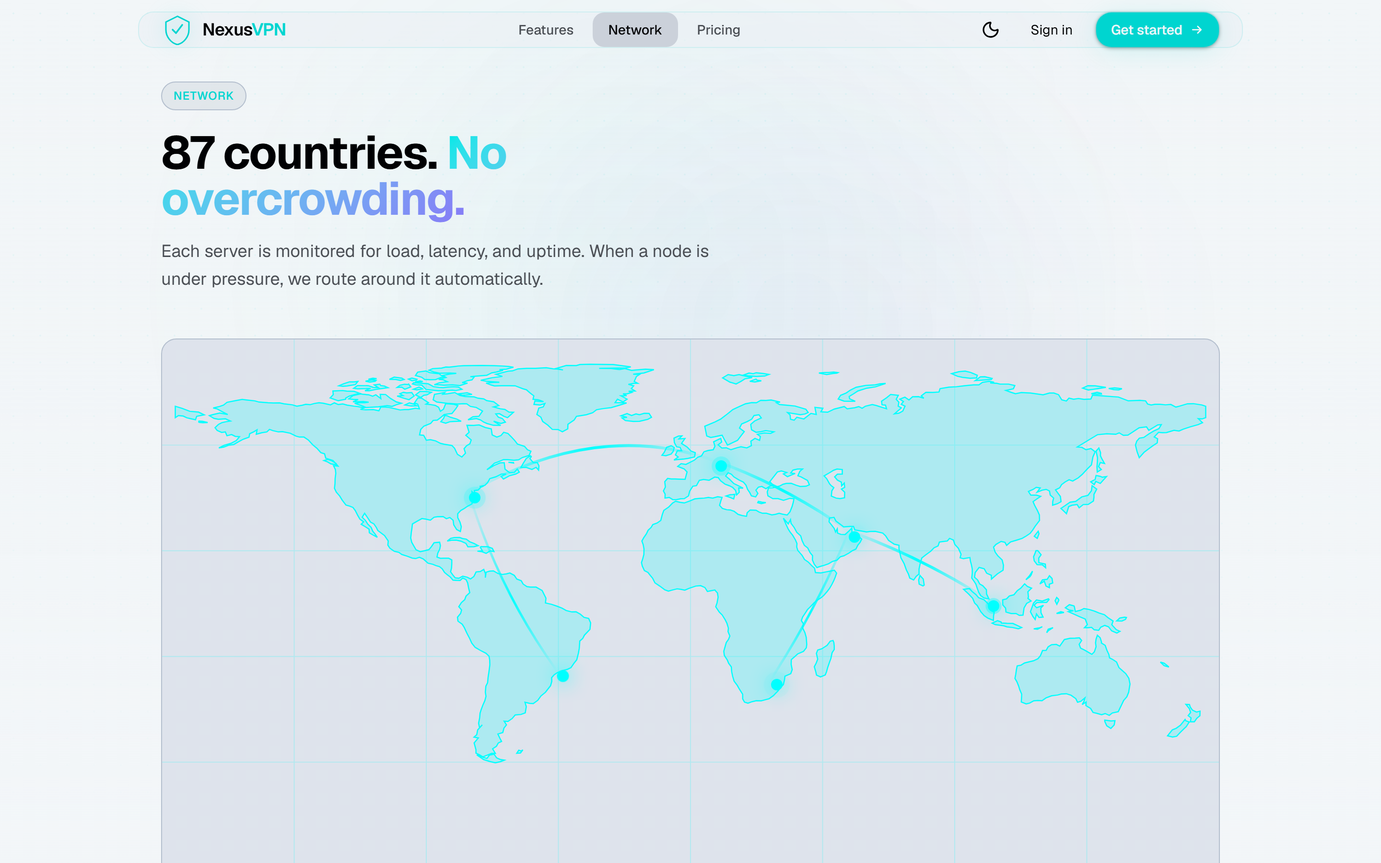
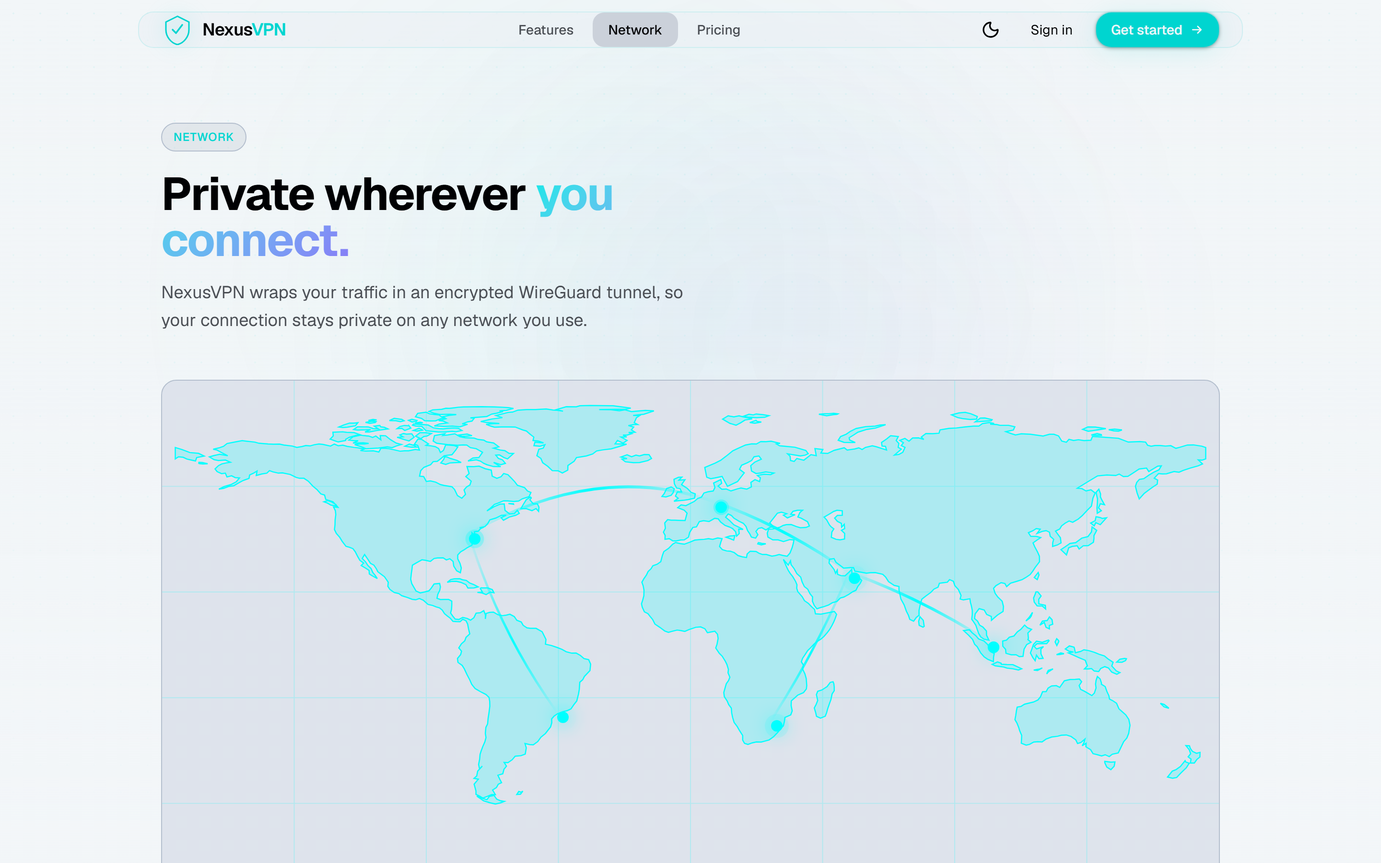
fix(web): align marketing claims with the real implementation
The public site advertised features and figures the project does not
implement. Rewrote the marketing content so every claim matches the code
(WireGuard only, no invented numbers), keeping the design:

- removed OpenVPN, kill switch, split tunneling, DNS-leak/"own resolver",
  "87 countries/servers", 99.98% uptime, 10 Gbps, independent/open audit,
  30-day money-back, SSO/SAML, dedicated IP, SLA and device-count claims;
- hero, stats, map (network), features, pricing, footer and metadata now
  describe the real service: WireGuard® (ChaCha20-Poly1305, Curve25519),
  no activity logs, pay in DZD via EDAHABIA/CIB, 7-day trial, cancel any time;
- plan features/descriptions (PlansTableSeeder + dev DB) and the comparison
  table rewritten (seats/protocol/payment instead of locations/split-tunnel);
- eslint: ignore docs/** (Node build scripts are not app code).

Verified: eslint, tsc --noEmit and next build pass; 131/131 backend tests
pass. Recaptured the six affected memoire screenshots (01, 02, 03, 05, 07,
90) in the same format and added capture-memoire.mjs. Updated Chapter IV
(Figure IV.4 caption) and docs/pfe (R-09 resolved, L-04/L-05, changelog).

Changed region(s): [[0.0938, 0.0933, 0.875, 0.9333]]

diff --git a/components/features-section.tsx b/components/features-section.tsx
@@ -12,7 +12,7 @@ const features = [
     ),
     title: "Your activity stays yours",
     badge: "Zero-log",
-    description: "We keep no connection timestamps, no IP addresses, no traffic data. Our infrastructure is architected so that we couldn't provide logs even if compelled to.",
+    description: "The portal keeps no VPN connection timestamps, no IP addresses and no traffic data. Its data model simply has nowhere to store your browsing.",
   },
   {
     icon: (
@@ -22,9 +22,9 @@ const features = [
         <circle cx="12" cy="16" r="1.5" fill="currentColor"/>
       </svg>
     ),
-    title: "End-to-end encryption",
-    badge: "ChaCha20 · AES-256",
-    description: "Traffic is encrypted before it leaves your device. We support WireGuard® and OpenVPN, with forward secrecy on every session.",
+    title: "Modern encryption",
+    badge: "WireGuard®",
+    description: "Every tunnel uses the WireGuard protocol — ChaCha20-Poly1305 encryption and Curve25519 keys, with a fresh key pair generated for each account.",
   },
   {
     icon: (
@@ -33,9 +33,9 @@ const features = [
         <path d="M5.64 6.64a9 9 0 000 10.72M8.46 9.46a5 5 0 000 5.08" stroke="currentColor" strokeWidth="1.5" strokeLinecap="round"/>
       </svg>
     ),
-    title: "Kill switch, always on",
-    badge: "Network guard",
-    description: "If the tunnel drops unexpectedly, network access is cut immediately — before your real IP is exposed. Works at the OS level, not app level.",
+    title: "Your real IP stays hidden",
+    badge: "IP masking",
+    description: "Your traffic is routed through the encrypted tunnel, so the sites you reach see the VPN's address — not the real one your ISP assigned you.",
   },
   {
     icon: (
@@ -45,9 +45,9 @@ const features = [
         <path d="M2 12h20" stroke="currentColor" strokeWidth="1.5"/>
       </svg>
     ),
-    title: "Access without borders",
-    badge: "87 countries",
-    description: "Reach content that's geo-restricted where you are. Servers placed for speed, not just flag count — every node is on high-bandwidth fiber.",
+    title: "Pay in Algerian dinars",
+    badge: "EDAHABIA · CIB",
+    description: "Checkout in DZD with EDAHABIA or CIB through the Chargily gateway — no foreign currency and no foreign card needed to subscribe.",
   },
   {
     icon: (
@@ -56,9 +56,9 @@ const features = [
         <circle cx="12" cy="12" r="4" stroke="currentColor" strokeWidth="1.5"/>
       </svg>
     ),
-    title: "Split tunneling",
-    badge: "Per-app routing",
-    description: "Route your bank app through the VPN while your video calls go direct. Full control over which traffic gets encrypted — without losing either.",
+    title: "Up and running in minutes",
+    badge: "7-day trial",
+    description: "Create an account, start a free 7-day trial, and download a ready-to-import WireGuard configuration file for your device.",
   },
   {
     icon: (
@@ -67,9 +67,9 @@ const features = [
         <path d="M14 3v5h5" stroke="currentColor" strokeWidth="1.5" strokeLinecap="round"/>
       </svg>
     ),
-    title: "DNS leak prevention",
-    badge: "Private resolver",
-    description: "DNS queries are resolved inside the encrypted tunnel using our own resolver — not your ISP's. Your browsing lookups stay invisible.",
+    title: "One simple subscription",
+    badge: "No lock-in",
+    description: "Manage your subscription from your dashboard, view your payment receipts, and cancel whenever you want — access runs to the end of the paid period.",
   },
 ]
 

diff --git a/components/hero-section.tsx b/components/hero-section.tsx
@@ -7,7 +7,7 @@ const statusItems = [
   { label: "Tunnel", value: "WireGuard®", color: "text-emerald-400" },
   { label: "DNS", value: "Protected", color: "text-emerald-400" },
   { label: "IP", value: "Masked", color: "text-emerald-400" },
-  { label: "Kill switch", value: "Active", color: "text-emerald-400" },
+  { label: "Cipher", value: "ChaCha20", color: "text-emerald-400" },
 ]
 
 /**
@@ -158,16 +158,16 @@ function VPNDashboard() {
             </div>
           </div>
 
-          {/* Server row */}
+          {/* Tunnel row */}
           <div className="flex items-center justify-between rounded-xl bg-primary/8 border border-primary/15 px-3 py-2.5">
             <div className="flex items-center gap-2.5">
-              <div className="w-6 h-6 rounded-md bg-primary/20 flex items-center justify-center text-xs">🇯🇵</div>
+              <div className="w-6 h-6 rounded-md bg-primary/20 flex items-center justify-center text-xs">🔒</div>
               <div>
-                <p className="text-xs font-medium text-foreground">Tokyo · JP‑01</p>
-                <p className="text-xs text-muted-foreground">12 ms</p>
+                <p className="text-xs font-medium text-foreground">Encrypted tunnel</p>
+                <p className="text-xs text-muted-foreground">WireGuard® · ChaCha20</p>
               </div>
             </div>
-            <button className="text-xs text-primary hover:text-primary/80 transition-colors">Switch</button>
+            <span className="text-xs font-medium text-emerald-400">Active</span>
           </div>
         </div>
       </div>
@@ -226,7 +226,7 @@ export function HeroSection() {
               <div className="flex max-w-full flex-wrap items-center justify-center gap-2 rounded-full border border-border bg-muted/50 px-3 py-1.5">
                 <div className="h-1.5 w-1.5 rounded-full bg-emerald-400" />
                 <span className="text-[11px] font-medium uppercase tracking-[0.18em] text-muted-foreground">
-                  Open audit · no logs · WireGuard®
+                  Encrypted · no activity logs · WireGuard®
                 </span>
               </div>
             </motion.div>
@@ -246,7 +246,7 @@ export function HeroSection() {
               variants={itemVariants}
               className="mx-auto mb-8 max-w-lg text-base leading-relaxed text-muted-foreground lg:mx-0 lg:text-lg"
             >
-              NexusVPN keeps your traffic encrypted, hides your real IP, and routes you through a reliable global network built for speed and privacy.
+              NexusVPN keeps your traffic encrypted, hides your real IP, and routes it through a secure WireGuard tunnel built for speed and privacy.
             </motion.p>
 
             {/* CTAs */}
@@ -274,9 +274,9 @@ export function HeroSection() {
               className="mt-8 flex flex-wrap items-center justify-center gap-x-5 gap-y-3 lg:justify-start"
             >
               {[
-                "Zero activity logs",
-                "30-day money back",
-                "Independent audit",
+                "No activity logs",
+                "7-day free trial",
+                "WireGuard® protocol",
               ].map((item) => (
                 <div key={item} className="flex items-center gap-1.5 text-xs text-muted-foreground">
                   <svg viewBox="0 0 16 16" fill="none" className="w-3.5 h-3.5 text-primary flex-shrink-0">

diff --git a/components/map-section.tsx b/components/map-section.tsx
@@ -3,12 +3,12 @@
 import { motion } from "framer-motion"
 
 const regions = [
-  { name: "North America", nodes: 24, latency: "8ms", x: "29.0%", y: "28.9%" },
-  { name: "Europe", nodes: 31, latency: "5ms", x: "52.4%", y: "22.9%" },
-  { name: "Asia Pacific", nodes: 19, latency: "14ms", x: "78.1%", y: "49.3%" },
-  { name: "South America", nodes: 7, latency: "22ms", x: "37.4%", y: "62.7%" },
-  { name: "Middle East", nodes: 4, latency: "18ms", x: "65.0%", y: "36.3%" },
-  { name: "Africa", nodes: 2, latency: "30ms", x: "57.6%", y: "64.2%" },
+  { name: "North America", x: "29.0%", y: "28.9%" },
+  { name: "Europe", x: "52.4%", y: "22.9%" },
+  { name: "Asia Pacific", x: "78.1%", y: "49.3%" },
+  { name: "South America", x: "37.4%", y: "62.7%" },
+  { name: "Middle East", x: "65.0%", y: "36.3%" },
+  { name: "Africa", x: "57.6%", y: "64.2%" },
 ]
 
 // Real-world coastlines (Natural Earth 110m land data), simplified and
@@ -31,11 +31,11 @@ export function MapSection() {
             <span className="text-xs text-primary font-medium tracking-wider uppercase">Network</span>
           </div>
           <h2 className="text-3xl md:text-4xl lg:text-5xl font-bold tracking-tight max-w-2xl">
-            87 countries.{" "}
-            <span className="text-gradient">No overcrowding.</span>
+            Private wherever{" "}
+            <span className="text-gradient">you connect.</span>
           </h2>
           <p className="text-muted-foreground mt-4 max-w-xl text-lg leading-relaxed">
-            Each server is monitored for load, latency, and uptime. When a node is under pressure, we route around it automatically.
+            NexusVPN wraps your traffic in an encrypted WireGuard tunnel, so your connection stays private on any network you use.
           </p>
         </motion.div>
 
@@ -118,21 +118,10 @@ export function MapSection() {
                     <div className="absolute bottom-5 left-1/2 -translate-x-1/2 opacity-0 group-hover:opacity-100 transition-opacity duration-200 pointer-events-none z-20">
                       <div className="glass rounded-xl px-3 py-2 whitespace-nowrap">
                         <p className="text-xs font-medium text-foreground">{region.name}</p>
-                        <p className="text-xs text-muted-foreground">{region.nodes} nodes · {region.latency} avg</p>
                       </div>
                     </div>
                   </div>
                 </motion.div>
-              ))}
-            </div>
-
-            {/* Region stats below map */}
-            <div className="grid grid-cols-3 md:grid-cols-6 divide-x divide-border border-t border-border">
-              {regions.map((region) => (
-                <div key={region.name} className="p-4 text-center">
-                  <p className="text-sm font-semibold text-foreground">{region.nodes}</p>
-                  <p className="text-xs text-muted-foreground mt-0.5 leading-tight">{region.name}</p>
-                </div>
               ))}
             </div>
           </div>

diff --git a/components/pricing-section.tsx b/components/pricing-section.tsx
@@ -11,9 +11,9 @@ import { useAuth } from "./auth-provider"
 
 /** Marketing comparison per plan slug; unknown plans show a dash instead of misaligned values. */
 const comparisonBySlug: Record<string, Record<string, string>> = {
-  essential: { Devices: 'Up to 3', 'Split tunneling': '—', 'Priority support': 'Email', 'Team dashboard': '—', 'Billing model': 'Personal' },
-  standard: { Devices: 'Unlimited', 'Split tunneling': 'Included', 'Priority support': 'Priority', 'Team dashboard': '—', 'Billing model': 'Personal' },
-  team: { Devices: '5–50 seats', 'Split tunneling': 'Included', 'Priority support': 'Dedicated', 'Team dashboard': 'Included', 'Billing model': 'Business' },
+  essential: { Seats: '1', 'Team dashboard': '—', 'Priority support': 'Email', 'Billing model': 'Personal' },
+  standard: { Seats: '1', 'Team dashboard': '—', 'Priority support': 'Priority', 'Billing model': 'Personal' },
+  team: { Seats: '5–50', 'Team dashboard': 'Included', 'Priority support': 'Dedicated', 'Billing model': 'Business' },
 }
 
 export function PricingSection() {
@@ -55,12 +55,11 @@ export function PricingSection() {
         plan.monthlyPrice === null ? 'Custom' : `${plan.monthlyPrice.toLocaleString('en-US')} DZD`,
       ),
     },
-    { label: 'Devices', values: marketingRow('Devices') },
-    { label: 'Server locations', values: comparisonPlans.map(() => '87 regions') },
-    { label: 'Protocols', values: comparisonPlans.map(() => 'WireGuard®') },
-    { label: 'Split tunneling', values: marketingRow('Split tunneling') },
-    { label: 'Priority support', values: marketingRow('Priority support') },
+    { label: 'Seats', values: marketingRow('Seats') },
+    { label: 'Protocol', values: comparisonPlans.map(() => 'WireGuard®') },
+    { label: 'Payment', values: comparisonPlans.map(() => 'EDAHABIA / CIB') },
     { label: 'Team dashboard', values: marketingRow('Team dashboard') },
+    { label: 'Priority support', values: marketingRow('Priority support') },
     { label: 'Billing model', values: marketingRow('Billing model') },
   ]
 
@@ -374,7 +373,7 @@ export function PricingSection() {
               <path d="M8 1L2 4v5c0 3.6 2.3 6.9 6 7.8C11.7 15.9 14 12.6 14 9V4L8 1z" stroke="currentColor" strokeWidth="1.2"/>
               <path d="M5.5 8l2 2L11 6" stroke="currentColor" strokeWidth="1.2" strokeLinecap="round" strokeLinejoin="round"/>
             </svg>
-            30-day money-back guarantee — no questions
+            No activity logs kept
           </div>
           <div className="flex items-center gap-2">
             <svg viewBox="0 0 16 16" fill="none" className="w-4 h-4 text-primary flex-shrink-0">

diff --git a/components/stats-section.tsx b/components/stats-section.tsx
@@ -5,32 +5,32 @@ import { motion, useInView } from "framer-motion"
 
 const stats = [
   {
-    value: 87,
-    suffix: "+",
-    unit: "countries",
-    label: "Server locations",
-    description: "Spread across six continents — not artificially inflated.",
+    value: 7,
+    suffix: "-day",
+    unit: "",
+    label: "Free trial",
+    description: "Try any self-serve plan before you pay — no card required.",
   },
   {
-    value: 10,
-    suffix: "Gbps",
+    value: 256,
+    suffix: "-bit",
     unit: "",
-    label: "Uplink per node",
-    description: "Dedicated fiber, not shared hosting.",
+    label: "Encryption",
+    description: "ChaCha20-Poly1305 with Curve25519 keys, via WireGuard.",
   },
   {
-    value: 99.98,
-    suffix: "%",
-    unit: "",
-    label: "Network uptime",
-    description: "Averaged over the last 12 months.",
+    value: 2,
+    suffix: "",
+    unit: "methods",
+    label: "Local payment",
+    description: "EDAHABIA and CIB, billed in Algerian dinars.",
   },
   {
     value: 0,
     suffix: "",
     unit: "logs",
     label: "Activity records",
-    description: "Confirmed by third-party audit.",
+    description: "The portal stores no VPN connection or traffic data.",
     isZero: true,
   },
 ]
@@ -60,7 +60,7 @@ function Counter({ value, suffix, unit, isZero }: { value: number; suffix: strin
     return () => clearInterval(timer)
   }, [inView, value, isZero])
 
-  const display = isZero ? "0" : value === 99.98 ? count.toFixed(2) : Math.floor(count)
+  const display = isZero ? "0" : Math.floor(count)
 
   return (
     <span ref={ref} className="text-3xl md:text-4xl font-bold text-foreground tabular-nums">

diff --git a/app/layout.tsx b/app/layout.tsx
@@ -9,12 +9,12 @@ const geistMono = Geist_Mono({ subsets: ['latin'], variable: '--font-geist-mono'
 
 export const metadata: Metadata = {
   title: 'NexusVPN — Private by Default',
-  description: 'Encrypted tunnels, zero activity logs, and a kill switch that never sleeps. NexusVPN keeps your connection private whether you\'re at home, at work, or on the road.',
-  keywords: ['VPN', 'privacy', 'encryption', 'security', 'anonymous browsing'],
+  description: 'Encrypted WireGuard tunnels, no activity logs, and checkout in Algerian dinars. NexusVPN keeps your connection private whether you\'re at home, at work, or on the road.',
+  keywords: ['VPN', 'WireGuard', 'privacy', 'encryption', 'security', 'anonymous browsing'],
   authors: [{ name: 'NexusVPN' }],
   openGraph: {
     title: 'NexusVPN — Private by Default',
-    description: 'Encrypted tunnels, zero activity logs, and a kill switch that never sleeps.',
+    description: 'Encrypted WireGuard tunnels, no activity logs, and checkout in Algerian dinars.',
     type: 'website',
   },
 }

diff --git a/components/footer.tsx b/components/footer.tsx
@@ -18,7 +18,7 @@ const footerLinks = {
     { name: "Help center", href: "#" },
     { name: "Contact", href: "/#contact" },
     { name: "System status", href: "#" },
-    { name: "Security audit", href: "#" },
+    { name: "Security", href: "#" },
   ],
   Legal: [
     { name: "Privacy policy", href: "#" },
@@ -48,7 +48,7 @@ export function Footer() {
               </span>
             </a>
             <p className="text-sm text-muted-foreground max-w-xs leading-relaxed mb-5">
-              Encrypted tunnels, zero activity logs, and a kill switch that never sleeps.
+              Encrypted WireGuard tunnels, no activity logs, and payment in Algerian dinars.
             </p>
             {/* Social */}
             <div className="flex gap-3">

diff --git a/nexus-vpn/database/seeders/PlansTableSeeder.php b/nexus-vpn/database/seeders/PlansTableSeeder.php
@@ -13,22 +13,22 @@ class PlansTableSeeder extends Seeder
             [
                 'slug' => 'essential',
                 'name' => 'Essential',
-                'description' => 'One person, one device at a time.',
+                'description' => 'Private WireGuard access for one person.',
                 'monthly_price' => 1119,
                 'yearly_price' => 558,
                 'yearly_total' => 6704,
-                'features' => json_encode(['Up to 3 devices', 'All 87 server locations', 'WireGuard & OpenVPN', 'Zero-log policy', 'Kill switch', 'Email support']),
+                'features' => json_encode(['WireGuard® VPN access', 'Encrypted traffic, hidden IP', 'No activity logs', 'Pay in DZD (EDAHABIA / CIB)', '7-day free trial', 'Email support']),
                 'popular' => 0,
                 'cta' => 'Start trial',
             ],
             [
                 'slug' => 'standard',
                 'name' => 'Standard',
-                'description' => 'All features. Unlimited devices.',
+                'description' => 'The recommended plan, with priority support.',
                 'monthly_price' => 1679,
                 'yearly_price' => 838,
                 'yearly_total' => 10063,
-                'features' => json_encode(['Unlimited devices', 'All 87 server locations', 'WireGuard & OpenVPN', 'Zero-log policy', 'Kill switch', 'Split tunneling', 'DNS leak protection', 'Priority support']),
+                'features' => json_encode(['WireGuard® VPN access', 'Encrypted traffic, hidden IP', 'No activity logs', 'Pay in DZD (EDAHABIA / CIB)', '7-day free trial', 'Priority support']),
                 'popular' => 1,
                 'cta' => 'Start trial',
             ],
@@ -39,7 +39,7 @@ class PlansTableSeeder extends Seeder
                 'monthly_price' => null,
                 'yearly_price' => null,
                 'yearly_total' => null,
-                'features' => json_encode(['Everything in Standard', 'Centralized dashboard', 'Usage analytics', 'Dedicated IP option', 'SSO / SAML support', 'Account manager', 'SLA guarantee']),
+                'features' => json_encode(['Everything in Standard', 'From 5 to 50 seats', 'Centralized team dashboard', 'Add & remove members', 'Centralized billing', 'Dedicated support']),
                 'popular' => 0,
                 'cta' => 'Contact us',
             ],

diff --git a/docs/pfe/17-changelog.md b/docs/pfe/17-changelog.md
@@ -42,3 +42,4 @@
 | 2026-10-11 | Mémoire (rédaction) | **Chapitre II finalisé/approuvé** : Table II.3 **vérifiée depuis les pages officielles** NordVPN + Proton VPN (ouvertes directement : moyens de paiement, devises, protocoles) — ne garde que des faits confirmés, 4 notes de bas de page spécifiques, caveat « à valider » retiré ; II.6 resserré aux faits confirmés (ni EDAHABIA ni CIB chez NordVPN/Proton ; devises étrangères ; Algérie absente des devises locales Proton). `ch2-sources.md` : section concurrents + correction loi 18-05 art. 6. Cohérence des notes vérifiée (aucune orpheline). **Chapitre II approuvé.** | Finir le Ch II sans rien laisser à valider par l'étudiant | Ch II approuvé ; Table II.3 entièrement sourcée | commit `docs(memoire): verify Table II.3 from competitor pages (Ch II approved)` |
 | 2026-10-11 | Mémoire (rédaction) | **Chapitre III rédigé** (`docs/memoire/chapters/ch3.md`, anglais) : structure complète III.1–III.12 selon la structure de l'encadrant + **introduction à UML** (cité OMG). Vue d'ensemble + **figure d'architecture** ; 5 parties prenantes (G-01) ; **matrice rôles/permissions** ; **table des acteurs** ; **10 tables de cas d'usage** (format référence, 6 lignes) ; **3 diagrammes de cas d'usage** (global/client/admin, support fusionné G-05) ; **8 diagrammes de séquence** (ajout des 3 manquants : annulation, contact, consultation des offres — rendus + vérifiés) ; diagramme de classes ; modèle relationnel + **ERD** ; **dictionnaire de données** ; règles de gestion ; cardinalités ; Gantt = emplacement marqué (dates réelles en attente, Q-18). **15 figures + 15 tableaux** légendés ; listes courantes figures/tableaux/abréviations dans `docs/memoire/lists.md`. **Chaque fait revérifié contre le code** (routes, contrôleurs, modèles, schéma, limites de débit — correction : lockout login = 5 tentatives/60 s par compte en plus du throttle 10/min par IP ; pool VPN 10.66.0.0/16). Mobile = placeholders (D-16). **Aucun code applicatif modifié.** | Rédiger le chapitre d'analyse et de conception | Ch III prêt pour revue (6.14) | commit `docs(memoire): draft Chapter III (analysis & design)` |
 | 2026-10-11 | Mémoire (rédaction) | **Corrections du Chapitre III** (relevées par l'étudiant) : (1) sémantique UML «include»/«extend» corrigée dans les 3 diagrammes de cas d'usage — suppression du faux «extend» (e-mail vérifié = **pré-condition**, pas extension) et du faux «include» Register→Verify ; ne reste que *Subscribe & checkout* «include» *Process payment* ; « Vérifier l'e-mail » rattaché à l'acteur ; **re-rendu avec Graphviz** + texte III.5.1 corrigé. (2) **11 tables de cas d'usage ajoutées** (format 6 lignes) : 8 admin + propriétaire d'équipe demandées (gérer comptes/offres/paiements-remboursements/abonnements-équipe/modération/demandes-contact/journal-audit/membres-équipe) **+ 3 côté client** pour cohérence (vérifier e-mail, gérer le compte, soumettre un témoignage) — toutes vérifiées contre le code ; tableaux renumérotés (UC = III.4–III.24, dictionnaire III.25, cardinalités III.26) ; `lists.md` mis à jour. (3) Diagramme de classes **vérifié nom par nom** contre les modèles (grantsAccess, markSucceeded/markFailed/recordRefund, closeAccount, issueFor/revokeFor, isSelfServe, seatLimit, record…) — **tout correct, aucune modification**. (4) `lists.md` : abréviations réduites à celles réellement employées (retrait de CRUD, ERD, OTP, SMTP ; TCP/UDP → UDP). **Aucun code applicatif modifié.** | Corriger le Ch III avant approbation | Ch III corrigé ; prêt pour relecture de l'étudiant | commit `docs(memoire): fix Chapter III (UML include/extend, admin use-case tables, lists)` |
+| 2026-10-11 | Frontend / Backend | **Contenu marketing aligné sur l'implémentation réelle** (R-09) : retrait des promesses non tenues — OpenVPN, kill switch, split tunneling, « protection DNS »/résolveur dédié, « 87 pays/serveurs », disponibilité 99,98 %, 10 Gbps, audit indépendant/ouvert, garantie 30 jours, SSO/SAML, IP dédiée, SLA, nombre d'appareils. Hero, stats, carte, fonctionnalités, tarifs, pied de page et métadonnées réécrits autour du réel (WireGuard® seul, ChaCha20-Poly1305/Curve25519, aucun log, paiement DZD EDAHABIA/CIB, essai 7 jours). Offres (`PlansTableSeeder` + base dev alignée) et listes de comparaison réécrites. `eslint.config.mjs` : `docs/**` ignoré (scripts Node utilitaires). | Que chaque affirmation du site corresponde au code (préparation soutenance) | lint, `tsc`, build OK ; **131/131 tests** ; 6 captures `memoire/` re-prises (01, 02, 03, 05, 07, 90) ; docs R-09/L-04/L-05 mis à jour | commit `fix(web): align marketing claims with the real implementation` |

diff --git a/docs/pfe/08-authentication-security.md b/docs/pfe/08-authentication-security.md
@@ -137,7 +137,7 @@ Consolidation des constats des étapes 1 (backend), 2 (frontend) et 3 (contrat, 
 | R-06 | ✅ **Corrigé (2026-10-06)** — Paiements restés `pending` jamais réconciliés automatiquement (si le webhook échoue définitivement et que l'utilisateur ne revient pas sur la page de résultat). Commande `payments:reconcile` planifiée toutes les 15 min (voir P-22). | Backend | Moyenne | Un client peut payer sans être activé jusqu'à une intervention manuelle. | `app/Console/Commands/ReconcilePayments.php`, `app/Services/ChargilyGateway.php`, `routes/console.php` |
 | R-07 | Aucune authentification à deux facteurs pour les comptes admin. | Backend | Moyenne | Un mot de passe admin compromis donne accès aux remboursements, rôles et données de tous les utilisateurs. | `app/Http/Controllers/Api/AuthController.php`, `app/Http/Middleware/EnsureUserIsAdmin.php` |
 | R-08 | Aucun test automatisé du frontend (authentification, paiement, `proxy.ts`). | Frontend | Moyenne | Les régressions des parcours critiques ne sont détectées que manuellement. | (absence) `package.json` |
-| R-09 | Chiffres et fonctionnalités marketing codés en dur non implémentés (87 pays, 99,98 % de disponibilité, OpenVPN, kill switch, split tunneling). | Frontend | Moyenne | Promesses non tenues envers l'utilisateur ; à présenter comme maquette dans le mémoire. | `components/stats-section.tsx`, `components/map-section.tsx`, `database/seeders/PlansTableSeeder.php` |
+| R-09 | ✅ **Corrigé (2026-10-11)** — Les chiffres et fonctionnalités marketing non implémentés (87 pays, 99,98 %, OpenVPN, kill switch, split tunneling, DNS dédié, audit indépendant, garantie 30 j, SSO/SAML, IP dédiée, SLA) ont été **retirés du site et des offres** ; le contenu décrit désormais uniquement le réel (WireGuard® seul, ChaCha20-Poly1305/Curve25519, aucun log, paiement DZD EDAHABIA/CIB, essai 7 jours). | Frontend | Moyenne | — (corrigé) | `components/{hero,stats,features,map,pricing,footer}*.tsx`, `app/layout.tsx`, `database/seeders/PlansTableSeeder.php` |
 | R-10 | ✅ **Corrigé (2026-10-06)** — Vérification du montant du webhook ignorée si `amount` est absent ; la devise n'est jamais comparée. Activation désormais conditionnée à un montant présent et égal **et** une devise concordante (voir P-21). | Backend | Faible | Le corps est signé par Chargily : seul le fournisseur pourrait envoyer une donnée incohérente. | `app/Services/ChargilyGateway.php` |
 | R-11 | CORS autorise `localhost:3000` et `127.0.0.1:3000` avec identifiants en production. | Backend | Faible | Exige une page malveillante servie sur le port 3000 de la machine de la victime ; CSRF et `SameSite=lax` restent actifs. | `config/cors.php` |
 | R-12 | CSP frontend avec `script-src 'unsafe-inline'` (pas de nonces). | Frontend | Faible | Réduit la défense contre le XSS, mais aucun point d'injection HTML n'a été trouvé dans le code applicatif. | `next.config.mjs` |

diff --git a/docs/pfe/19-limitations-and-future-work.md b/docs/pfe/19-limitations-and-future-work.md
@@ -9,8 +9,8 @@
 | L-01 | Pas de renouvellement automatique : l'utilisateur doit repayer à chaque période | Paiements Chargily ponctuels (`15-technical-decisions.md` TD-09) |
 | L-02 | Changement d'offre sans prorata : les jours restants de l'ancienne offre sont perdus | `Payment::applyToSubscription()` termine l'ancien abonnement immédiatement |
 | L-03 | Une seule passerelle VPN, pas de choix de pays/serveur | `config/services.php` (`services.vpn.*`) |
-| L-04 | Nombre d'appareils non limité ni géré : un seul identifiant WireGuard actif par utilisateur, malgré « Up to 3 devices » / « Unlimited devices » dans les offres | `VpnCredential::issueFor()`, `PlansTableSeeder` |
-| L-05 | Fonctionnalités annoncées non implémentées : OpenVPN, kill switch, split tunneling, protection DNS dédiée, SSO/SAML, IP dédiée, SLA | Contenu des offres et du site (`04-frontend.md` §13) |
+| L-04 | Un seul identifiant WireGuard actif par utilisateur ; la gestion multi-appareils (un pair par appareil) n'est pas implémentée. Les offres ne mentionnent plus de nombre d'appareils (contenu aligné, 2026-10-11). | `VpnCredential::issueFor()` |
+| L-05 | Fonctionnalités non implémentées (perspectives) : OpenVPN, kill switch, split tunneling, protection DNS dédiée, SSO/SAML, IP dédiée, SLA. **Retirées du site et des offres le 2026-10-11** ; elles ne sont donc plus annoncées. | `04-frontend.md` §13 |
 | L-06 | Pas de page de reçu/facture ni de facture PDF, alors que l'endpoint de reçu existe | `07-api.md` §13.1 |
 | L-07 | Renommage d'équipe sans interface ; les membres doivent déjà avoir un compte (pas d'invitation par e-mail) | `TeamController` |
 | L-08 | ✅ **Résolu (2026-10-06)** — Suppression de compte en libre-service ajoutée (`DELETE /api/account`, anonymisation + soft delete). Reste la route web héritée `DELETE /settings/profile` non modifiée (R-03). | `05-backend.md` §7.6, `07-api.md` §5 |
@@ -39,7 +39,7 @@ Classées par priorité suggérée (⚠ À VÉRIFIER : priorités de l'étudi
 4. Restreindre `TRUSTED_PROXIES` et les origines CORS par environnement — R-05, R-11.
 5. Authentification à deux facteurs pour les administrateurs — R-07.
 6. Tests frontend (unitaires et de bout en bout, ex. parcours inscription → paiement) et CI exécutant tests, lint et build — R-08, L-16.
-7. Aligner le contenu marketing sur les fonctionnalités réelles, ou implémenter la gestion multi-appareils (un pair par appareil) — R-09, L-04, L-05.
+7. ✅ Contenu marketing aligné sur les fonctionnalités réelles (2026-10-11, R-09). Reste, si souhaité, à implémenter la gestion multi-appareils (un pair par appareil) — L-04 ; les fonctionnalités retirées (OpenVPN, kill switch…) demeurent des perspectives — L-05.
 8. Prorata lors d'un changement d'offre, factures PDF, page de reçu — L-02, L-06.
 9. Internationalisation (français/arabe/anglais) — L-09.
 10. File d'attente pour les e-mails — R-19.

diff --git a/docs/pfe/04-frontend.md b/docs/pfe/04-frontend.md
@@ -186,4 +186,4 @@ Le projet frontend a été généré initialement avec **v0 (Vercel)** : `.gitig
 ## 13. Contenu et langue
 
 * L'interface est en **anglais** (`<html lang="en">`), alors que le checkout Chargily est demandé en `locale: 'fr'` par le backend.
-* Les chiffres marketing (87 pays, 99,98 % de disponibilité, 10 Gbit/s par nœud, nombre de nœuds par région sur la carte) sont **du contenu statique codé en dur** dans `stats-section.tsx` et `map-section.tsx`, non issu de l'API ni d'une infrastructure mesurée. ⚠ À VÉRIFIER : à présenter comme maquette marketing dans le mémoire (le backend ne gère qu'une passerelle WireGuard configurée par variables d'environnement).
+* ✅ **Corrigé (2026-10-11)** — Les anciens chiffres et fonctionnalités marketing non implémentés (87 pays, 99,98 %, 10 Gbit/s, nœuds par région, OpenVPN, kill switch, split tunneling, DNS dédié, audit, garantie 30 j, SSO/SAML, IP dédiée, SLA) ont été **retirés** de `hero-section.tsx`, `stats-section.tsx`, `features-section.tsx`, `map-section.tsx`, `pricing-section.tsx`, `footer.tsx` et `app/layout.tsx` (ainsi que des offres, `PlansTableSeeder` + base dev). Le contenu décrit maintenant uniquement le réel : WireGuard® seul, chiffrement ChaCha20-Poly1305/Curve25519, aucun log, paiement DZD EDAHABIA/CIB, essai 7 jours. Le backend ne gère qu'une passerelle WireGuard configurée par variables d'environnement.
